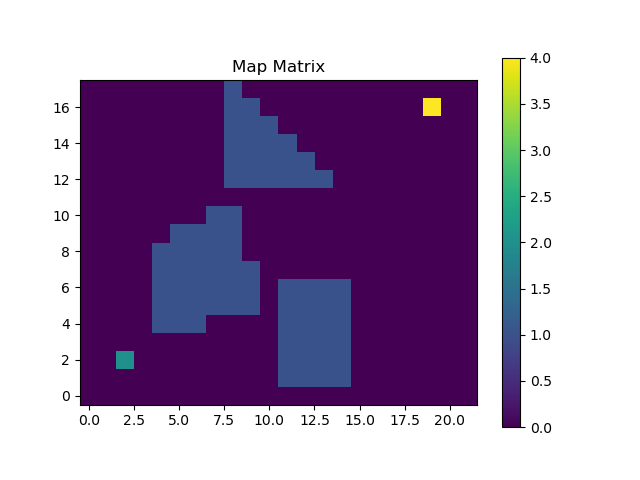
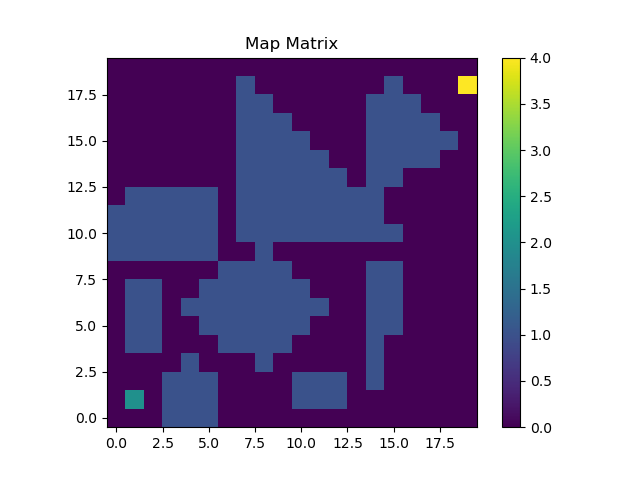
Test 3 algos

Changed region(s): [[0.0625, 0.0625, 0.75, 0.9375]]

diff --git a/Code/aStar.py b/Code/aStar.py
@@ -217,7 +217,7 @@ def aStar(matrix, src, dest):
 
 '''TESTING SECTION'''                  
 map = Map()
-map.create('input.txt')
+map.create('./Test_cases/maximum_obstacles.txt')
 
 matrix = map.matrix
 
@@ -232,11 +232,22 @@ des.append(map.map_info.points['end'][0])
 
 path = aStar(matrix, src, des)
 
-# Display the matrix
+# # Display the matrix
+# matplotlib.use('Agg')
+# plt.imshow(map.matrix, cmap='viridis', interpolation='nearest', origin='lower')
+
+# # Add colorbar for reference
+# plt.colorbar()
+# plt.title('Map Matrix')
+# plt.savefig("matplotlib.png")
+
 matplotlib.use('Agg')
 plt.imshow(map.matrix, cmap='viridis', interpolation='nearest', origin='lower')
+
+shortest_path = np.array(path)
+plt.plot(shortest_path[:, 1], shortest_path[:, 0], 'go', markersize=5, alpha=0.5)
 
 # Add colorbar for reference
 plt.colorbar()
 plt.title('Map Matrix')
-plt.savefig("matplotlib.png")
+plt.savefig("aStar.png")

diff --git a/Code/GBFS.py b/Code/GBFS.py
@@ -116,3 +116,27 @@ def greedy_best_first_search(start, end, map_obj):
 # # Call the function and print the result
 # path, cost = greedy_best_first_search(start, end, polygons)
 # print(path)
+
+import matplotlib as plt
+import matplotlib
+from map import *
+
+'''TESTING SECTION'''                  
+map = Map()
+map.create('./Test_cases/maximum_obstacles.txt')
+# print(map.map_info.map_limits)
+# print(map.map_info.points)
+# print(map.map_info.obstacles)
+path, cost = greedy_best_first_search(map.map_info.points['start'], map.map_info.points['end'], map)
+
+# Display the matrix
+matplotlib.use('Agg')
+plt.imshow(map.matrix, cmap='viridis', interpolation='nearest', origin='lower')
+
+shortest_path = np.array(path)
+plt.plot(shortest_path[:, 1], shortest_path[:, 0], 'go', markersize=5, alpha=0.5)
+
+# Add colorbar for reference
+plt.colorbar()
+plt.title('Map Matrix')
+plt.savefig("GBFS.png")

diff --git a/Code/Dijkstra.py b/Code/Dijkstra.py
@@ -75,7 +75,7 @@ class Dijkstra:
 
 '''TESTING SECTION'''                  
 map = Map()
-map.create('input.txt')
+map.create("./Test_cases/maximum_obstacles.txt")
 
 dijkstra = Dijkstra(map.matrix)
 
@@ -99,4 +99,4 @@ plt.plot(shortest_path[:, 1], shortest_path[:, 0], 'go', markersize=5, alpha=0.5
 # Add colorbar for reference
 plt.colorbar()
 plt.title('Map Matrix')
-plt.savefig("matplotlib.png")
+plt.savefig("Dijkstra.png")

diff --git a/Code/map.py b/Code/map.py
@@ -152,7 +152,7 @@ class MapGenerator:
 
 '''TESTING SECTION'''                  
 map = Map()
-map.create('Test_cases\maximum_obstacles.txt')
+map.create("./Test_cases/maximum_obstacles.txt")
 print(map.map_info.map_limits)
 print(map.map_info.points)
 print(map.map_info.obstacles)
